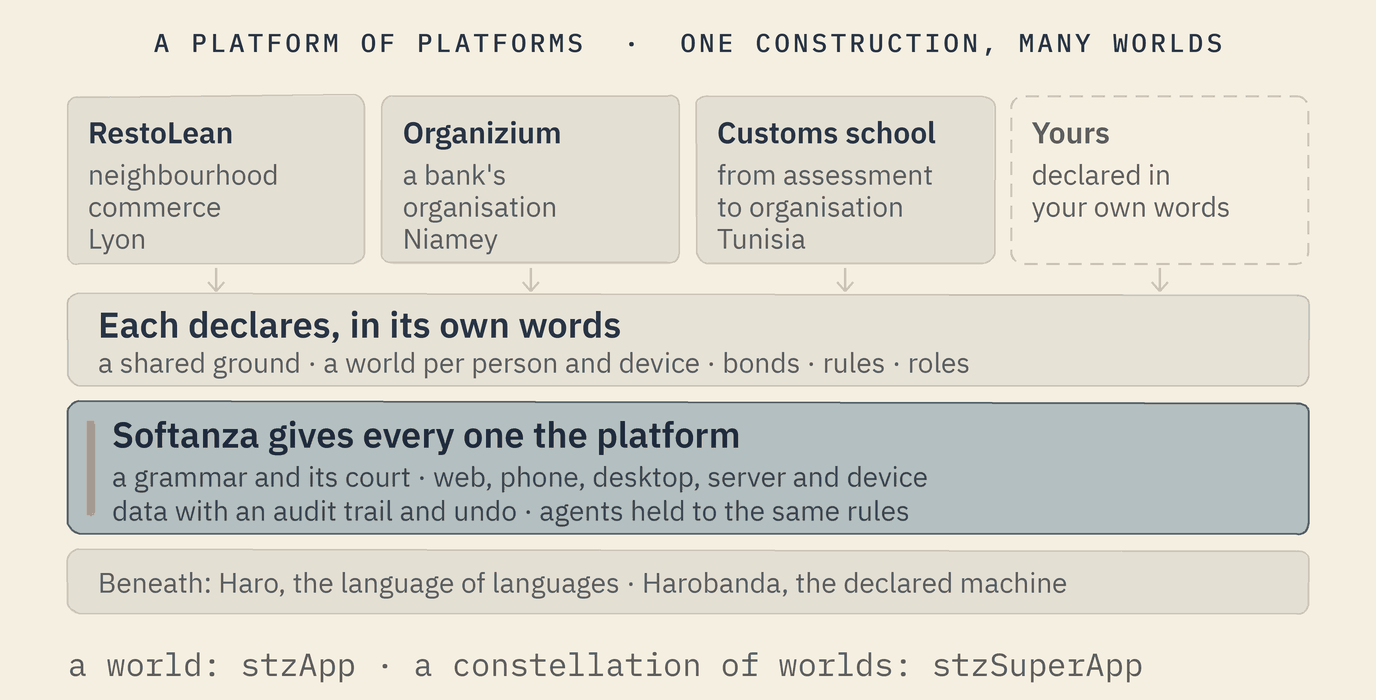
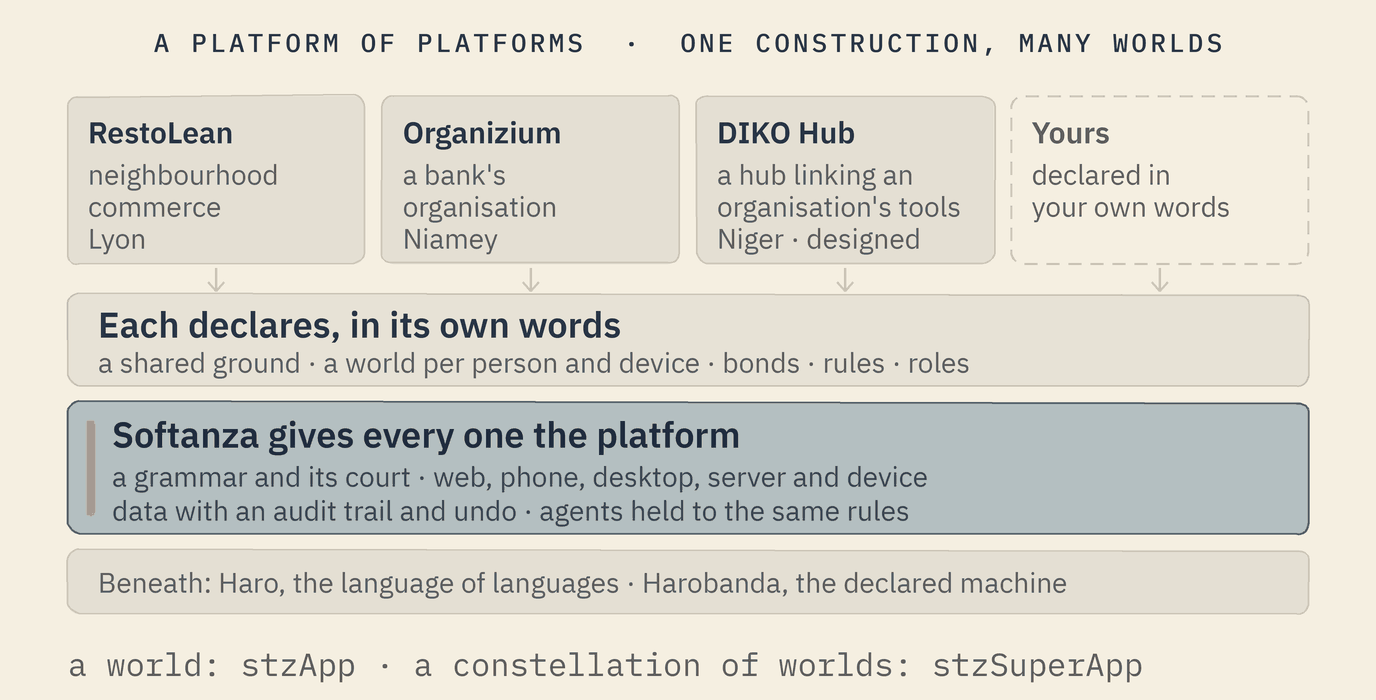
Sweep the customs school out of the site: Customers, Africa, Platforms with its diagram, Principles, Tour
DIKO Hub takes its place in the platforms diagram and text, written as a design study that is not built; Customers now says two references, and points to Forged in projects for DIKO. The diagram is redrawn wide and narrow in both languages.

Changed region(s): [[0.5, 0.24, 0.6875, 0.36], [0.5312, 0.15, 0.6875, 0.21]]

diff --git a/fr/platforms.html b/fr/platforms.html
@@ -37,9 +37,9 @@
 <p class="way"><span>La manière Softanza</span> Une plateforme n'est pas un hôte qui fait tourner les applications des autres. C'est une constellation de mondes déclarée dans les propres mots de l'organisation, partageant un même socle, reliée par des liens, et gouvernée comme un tout.</p>
 
 <h2 id="pattern">Ce que chacune déclare, et ce qu'elle reçoit</h2>
-<figure class="diagram"><img class="wide-only" src="../assets/img/diagrams/platforms-fr.png" alt="Quatre plateformes côte à côte : RestoLean, commerce de quartier à Lyon ; Organizium, l'organisation d'une banque à Niamey ; une école des douanes en Tunisie, où l'évaluation est devenue organisation ; et une boîte en pointillé, la vôtre, déclarée dans vos propres mots. En dessous, ce que chacune déclare dans ses propres mots : un socle commun, un monde par personne et appareil, des liens, des règles, des rôles. En dessous encore, la bande mise en avant : Softanza donne à chacune la plateforme, une grammaire et son tribunal, web, téléphone, bureau, serveur, appareil, des données avec journal et retour arrière, des agents tenus aux mêmes règles. Tout en bas : Haro, la langue des langues, et Harobanda, la machine déclarée." width="1376" height="768"><img class="narrow-only" loading="lazy" src="../assets/img/diagrams/platforms-narrow-fr.png" alt="Quatre plateformes côte à côte : RestoLean, commerce de quartier à Lyon ; Organizium, l'organisation d'une banque à Niamey ; une école des douanes en Tunisie, où l'évaluation est devenue organisation ; et une boîte en pointillé, la vôtre, déclarée dans vos propres mots. En dessous, ce que chacune déclare dans ses propres mots : un socle commun, un monde par personne et appareil, des liens, des règles, des rôles. En dessous encore, la bande mise en avant : Softanza donne à chacune la plateforme, une grammaire et son tribunal, web, téléphone, bureau, serveur, appareil, des données avec journal et retour arrière, des agents tenus aux mêmes règles. Tout en bas : Haro, la langue des langues, et Harobanda, la machine déclarée." width="640" height="1744"><figcaption>Une seule construction pour toutes les plateformes : un monde est stzApp, et une constellation de mondes est stzSuperApp.</figcaption></figure>
+<figure class="diagram"><img class="wide-only" src="../assets/img/diagrams/platforms-fr.png" alt="Quatre plateformes côte à côte : RestoLean, commerce de quartier à Lyon ; Organizium, l'organisation d'une banque à Niamey ; DIKO Hub, une étude de conception qui relie les outils d'une organisation au Niger ; et une boîte en pointillé, la vôtre, déclarée dans vos propres mots. En dessous, ce que chacune déclare dans ses propres mots : un socle commun, un monde par personne et appareil, des liens, des règles, des rôles. En dessous encore, la bande mise en avant : Softanza donne à chacune la plateforme, une grammaire et son tribunal, web, téléphone, bureau, serveur, appareil, des données avec journal et retour arrière, des agents tenus aux mêmes règles. Tout en bas : Haro, la langue des langues, et Harobanda, la machine déclarée." width="1376" height="768"><img class="narrow-only" loading="lazy" src="../assets/img/diagrams/platforms-narrow-fr.png" alt="Quatre plateformes côte à côte : RestoLean, commerce de quartier à Lyon ; Organizium, l'organisation d'une banque à Niamey ; DIKO Hub, une étude de conception qui relie les outils d'une organisation au Niger ; et une boîte en pointillé, la vôtre, déclarée dans vos propres mots. En dessous, ce que chacune déclare dans ses propres mots : un socle commun, un monde par personne et appareil, des liens, des règles, des rôles. En dessous encore, la bande mise en avant : Softanza donne à chacune la plateforme, une grammaire et son tribunal, web, téléphone, bureau, serveur, appareil, des données avec journal et retour arrière, des agents tenus aux mêmes règles. Tout en bas : Haro, la langue des langues, et Harobanda, la machine déclarée." width="640" height="1704"><figcaption>Une seule construction pour toutes les plateformes : un monde est stzApp, et une constellation de mondes est stzSuperApp.</figcaption></figure>
 
-<p>Chaque plateforme bâtie ainsi déclare les mêmes cinq choses, en texte qui lui appartient : son socle commun, un monde pour chaque personne et chaque appareil, les liens entre les mondes, ses règles et ses rôles. D'une plateforme à l'autre, seul le contenu change : un catalogue et ses taxes, la réglementation d'une banque, le programme d'une école, les langues que parlent ses gens.</p>
+<p>Chaque plateforme bâtie ainsi déclare les mêmes cinq choses, en texte qui lui appartient : son socle commun, un monde pour chaque personne et chaque appareil, les liens entre les mondes, ses règles et ses rôles. D'une plateforme à l'autre, seul le contenu change : un catalogue et ses taxes, la réglementation d'une banque, le circuit d'approbations d'une organisation, les langues que parlent ses gens.</p>
 <p>Ce que chacune reçoit est le même. Une grammaire, et le tribunal qui juge chaque phrase écrite dans cette grammaire. La projection vers le web, le téléphone, le bureau, le serveur et l'appareil. Des données qui passent par des étapes, avec un journal et un retour arrière. Et un agent qui se tient sur le savoir que la plateforme déclare, tenu aux mêmes règles que les personnes. La plateforme est celle de Softanza ; les mots sont ceux de l'organisation.</p>
 <h2 id="run">En marche</h2>
 <p>La construction existe dans la bibliothèque, et sa propre garde la juge. La voici, exécutée pour cette page : deux mondes deviennent une plateforme, puis cette plateforme devient un monde d'une plateforme plus grande.</p>
@@ -79,17 +79,17 @@ super
 <div class="cards">
 <div class="card"><h3>RestoLean, Lyon</h3><p>Une plateforme pour le commerce de quartier, déclarée comme une constellation. Son socle commun porte l'identité, le catalogue, les commandes, les paiements et la flotte des boutiques. Sur ce socle se tiennent un monde pour le téléphone du client, un pour l'écran de la cuisine, un pour l'atelier du commerçant et un pour la console de l'éditeur. Une boulangerie sera une nouvelle constellation sur le même socle, pas une réécriture.</p></div>
 <div class="card"><h3>Organizium, Niamey</h3><p>La plateforme où est née la couche web de Softanza, au service de l'organisation d'une banque, la Sonibank : sa structure, ses processus et ses indicateurs. Ses déclarations s'écrivent désormais dans les langues de la plateforme.</p></div>
-<div class="card"><h3>L'École des douanes, Tunisie</h3><p>Quatre exigences ont transformé un outil d'évaluation en plateforme d'organisation à deux niveaux : l'ossature de l'organisation, toujours présente, et le domaine propre de l'école, son programme et ses résultats. Les niveaux restent ; le contenu change avec le domaine.</p></div>
+<div class="card"><h3>DIKO Hub, Niger</h3><p>Une étude de conception, pas une plateforme construite : un point d'entrée unique qui relie les outils existants d'une organisation sans en remplacer aucun. Il demande à une plateforme ce que les autres ont demandé avec leurs mots : son propre vocabulaire et ses règles, une personne qui décide, tout tracé, un circuit avec ses délais. <a href="forged.html#diko">Ce qu'il demande, pièce par pièce</a>.</p></div>
 </div>
 
 <h2 id="stage">Honnête sur le stade</h2>
 <ul>
 <li><strong>La construction est construite.</strong> Un monde et une constellation de mondes tournent dans la bibliothèque, et les exécutions ci-dessus viennent de leur garde.</li>
 <li><strong>Une même coque porte déjà plusieurs métiers.</strong> Dans les applications de Softanza, la même coque porte des paquets de domaine, de la banque à la vérification préalable d'une ONG : la même coque, un autre métier, aucun code changé.</li>
-<li><strong>Les plateformes des clients tournent aujourd'hui sur des piles web ordinaires.</strong> Leurs mondes, leurs liens et leurs règles sont écrits, ou en train de l'être, comme des déclarations Softanza : les faire passer sur le moteur de Softanza est un changement de moteur, pas de plan.</li>
+<li><strong>Les plateformes des clients tournent aujourd'hui sur des piles web ordinaires, et DIKO Hub n'est pas construit.</strong> Leurs mondes, leurs liens et leurs règles sont écrits, ou en train de l'être, comme des déclarations Softanza : les faire passer sur le moteur de Softanza est un changement de moteur, pas de plan.</li>
 <li><strong>Aucune plateforme n'écrit encore sa fiche de garanties.</strong> L'étoile polaire demande à chaque solution cinq lignes, une par système auquel elle répond : technique, social, écologique, économique et culturel. C'est la prochaine étape pour chacune.</li>
 </ul>
-<p class="proof">La construction est décrite dans la note de conception de la bibliothèque <a href="https://github.com/mayouni/stzlib/blob/main/libraries/stzlib/base/doc/design/STZSUPERAPP_DESIGN.md" target="_blank" rel="noopener noreferrer">STZSUPERAPP_DESIGN.md<span class="xarr" aria-hidden="true"></span><span class="sr">(s'ouvre dans un nouvel onglet)</span></a> et jugée par la garde <a href="https://github.com/mayouni/stzlib/blob/main/libraries/stzlib/base/test/app/06_stzsuperapp_narrated.ring" target="_blank" rel="noopener noreferrer">06_stzsuperapp_narrated.ring<span class="xarr" aria-hidden="true"></span><span class="sr">(s'ouvre dans un nouvel onglet)</span></a>. Les trois plateformes sont les références de ce site. Leurs histoires, projet par projet : <a href="forged.html">Forgée en projets</a>.</p>
+<p class="proof">La construction est décrite dans la note de conception de la bibliothèque <a href="https://github.com/mayouni/stzlib/blob/main/libraries/stzlib/base/doc/design/STZSUPERAPP_DESIGN.md" target="_blank" rel="noopener noreferrer">STZSUPERAPP_DESIGN.md<span class="xarr" aria-hidden="true"></span><span class="sr">(s'ouvre dans un nouvel onglet)</span></a> et jugée par la garde <a href="https://github.com/mayouni/stzlib/blob/main/libraries/stzlib/base/test/app/06_stzsuperapp_narrated.ring" target="_blank" rel="noopener noreferrer">06_stzsuperapp_narrated.ring<span class="xarr" aria-hidden="true"></span><span class="sr">(s'ouvre dans un nouvel onglet)</span></a>. Les deux premières plateformes sont des références de ce site ; la troisième est une étude de conception. Leurs histoires, projet par projet : <a href="forged.html">Forgée en projets</a>.</p>
   </div>
 </main>
 <footer class="foot"><div class="wrap">

diff --git a/en/platforms.html b/en/platforms.html
@@ -37,9 +37,9 @@
 <p class="way"><span>The Softanza way</span> A platform is not a host that runs other people's apps. It is a constellation of worlds declared in the organisation's own words, sharing one ground, joined by bonds, and governed as one.</p>
 
 <h2 id="pattern">What each one declares, and what it receives</h2>
-<figure class="diagram"><img class="wide-only" src="../assets/img/diagrams/platforms-en.png" alt="Four platforms side by side: RestoLean, neighbourhood commerce in Lyon; Organizium, a bank's organisation in Niamey; a customs school in Tunisia, where assessment became organisation; and a dashed box, yours, declared in your own words. Below them, what each declares in its own words: a shared ground, a world per person and device, bonds, rules, roles. Below that, the emphasised band: Softanza gives every one the platform, a grammar and its court, web, phone, desktop, server and device, data with an audit trail and undo, agents held to the same rules. At the bottom, beneath: Haro, the language of languages, and Harobanda, the declared machine." width="1376" height="768"><img class="narrow-only" loading="lazy" src="../assets/img/diagrams/platforms-narrow-en.png" alt="Four platforms side by side: RestoLean, neighbourhood commerce in Lyon; Organizium, a bank's organisation in Niamey; a customs school in Tunisia, where assessment became organisation; and a dashed box, yours, declared in your own words. Below them, what each declares in its own words: a shared ground, a world per person and device, bonds, rules, roles. Below that, the emphasised band: Softanza gives every one the platform, a grammar and its court, web, phone, desktop, server and device, data with an audit trail and undo, agents held to the same rules. At the bottom, beneath: Haro, the language of languages, and Harobanda, the declared machine." width="640" height="1664"><figcaption>One construction for every platform: a world is stzApp, and a constellation of worlds is stzSuperApp.</figcaption></figure>
+<figure class="diagram"><img class="wide-only" src="../assets/img/diagrams/platforms-en.png" alt="Four platforms side by side: RestoLean, neighbourhood commerce in Lyon; Organizium, a bank's organisation in Niamey; DIKO Hub, a design study that links an organisation's tools in Niger; and a dashed box, yours, declared in your own words. Below them, what each declares in its own words: a shared ground, a world per person and device, bonds, rules, roles. Below that, the emphasised band: Softanza gives every one the platform, a grammar and its court, web, phone, desktop, server and device, data with an audit trail and undo, agents held to the same rules. At the bottom, beneath: Haro, the language of languages, and Harobanda, the declared machine." width="1376" height="768"><img class="narrow-only" loading="lazy" src="../assets/img/diagrams/platforms-narrow-en.png" alt="Four platforms side by side: RestoLean, neighbourhood commerce in Lyon; Organizium, a bank's organisation in Niamey; DIKO Hub, a design study that links an organisation's tools in Niger; and a dashed box, yours, declared in your own words. Below them, what each declares in its own words: a shared ground, a world per person and device, bonds, rules, roles. Below that, the emphasised band: Softanza gives every one the platform, a grammar and its court, web, phone, desktop, server and device, data with an audit trail and undo, agents held to the same rules. At the bottom, beneath: Haro, the language of languages, and Harobanda, the declared machine." width="640" height="1624"><figcaption>One construction for every platform: a world is stzApp, and a constellation of worlds is stzSuperApp.</figcaption></figure>
 
-<p>Every platform built this way declares the same five things, as text it owns: its shared ground, a world for each person and device, the bonds between the worlds, its rules and its roles. What changes from one platform to the next is only the content: a catalogue and its taxes, a bank's regulations, a school's curriculum, the languages its people speak.</p>
+<p>Every platform built this way declares the same five things, as text it owns: its shared ground, a world for each person and device, the bonds between the worlds, its rules and its roles. What changes from one platform to the next is only the content: a catalogue and its taxes, a bank's regulations, an organisation's circuit of approvals, the languages its people speak.</p>
 <p>What every one receives is the same. A grammar, and the court that judges every sentence written in it. Projection to the web, the phone, the desktop, the server and the device. Data that moves through stages with an audit trail and undo. And an agent that stands on the knowledge the platform declares, held to the same rules as the people. The platform is Softanza's; the words are the organisation's.</p>
 <h2 id="run">Running</h2>
 <p>The construction exists in the library and is judged by its own guard. Here it is, run for this page: two worlds become one platform, and then that platform becomes one world of a larger one.</p>
@@ -79,17 +79,17 @@ super
 <div class="cards">
 <div class="card"><h3>RestoLean, Lyon</h3><p>A platform for neighbourhood commerce, declared as a constellation. Its shared ground holds identity, the catalogue, orders, payments and the fleet of shops. On that ground stand a world for the customer's phone, one for the kitchen's screen, one for the merchant's workshop and one for the publisher's console. A bakery will be a new constellation on the same ground, not a rewrite.</p></div>
 <div class="card"><h3>Organizium, Niamey</h3><p>The platform in which Softanza's web layer was born, serving the organisation of a bank, Sonibank: its structure, its processes and its indicators. Its declarations are now being written in the platform's own languages.</p></div>
-<div class="card"><h3>The customs school, Tunisia</h3><p>Four requirements turned an assessment tool into an organisational platform with two levels: the organisation's backbone, always present, and the school's own domain, its curriculum and its results. The levels stay; the content changes with the domain.</p></div>
+<div class="card"><h3>DIKO Hub, Niger</h3><p>A design study, not a built platform: one entry point that links an organisation's existing tools without replacing any. It asks of a platform what the others asked in their own words: its own vocabulary and rules, a person who decides, everything traced, a circuit with its deadlines. <a href="forged.html#diko">What it asks, piece by piece</a>.</p></div>
 </div>
 
 <h2 id="stage">Honest about the stage</h2>
 <ul>
 <li><strong>The construction is built.</strong> A world and a constellation of worlds run in the library, and the runs above come from their guard.</li>
 <li><strong>One shell already carries several domains.</strong> In Softanza's applications, the same shell holds domain packs from banking to an NGO's due diligence: the same shell, a different domain, no code change.</li>
-<li><strong>The customer platforms run today on ordinary web stacks.</strong> Their worlds, bonds and rules are written, or being written, as Softanza declarations, so moving them onto the Softanza engine is a change of engine, not of plan.</li>
+<li><strong>The customer platforms run today on ordinary web stacks, and DIKO Hub is not built.</strong> Their worlds, bonds and rules are written, or being written, as Softanza declarations, so moving them onto the Softanza engine is a change of engine, not of plan.</li>
 <li><strong>No platform writes its guarantee sheet yet.</strong> The north star asks every solution for five rows, one per system it answers to: technical, social, ecological, economic and cultural. That is the next step for each of them.</li>
 </ul>
-<p class="proof">The construction is described in the library's design note <a href="https://github.com/mayouni/stzlib/blob/main/libraries/stzlib/base/doc/design/STZSUPERAPP_DESIGN.md" target="_blank" rel="noopener noreferrer">STZSUPERAPP_DESIGN.md<span class="xarr" aria-hidden="true"></span><span class="sr">(opens in a new tab)</span></a> and judged by the guard <a href="https://github.com/mayouni/stzlib/blob/main/libraries/stzlib/base/test/app/06_stzsuperapp_narrated.ring" target="_blank" rel="noopener noreferrer">06_stzsuperapp_narrated.ring<span class="xarr" aria-hidden="true"></span><span class="sr">(opens in a new tab)</span></a>. The three platforms are the references of this site. Their stories, project by project: <a href="forged.html">Forged in projects</a>.</p>
+<p class="proof">The construction is described in the library's design note <a href="https://github.com/mayouni/stzlib/blob/main/libraries/stzlib/base/doc/design/STZSUPERAPP_DESIGN.md" target="_blank" rel="noopener noreferrer">STZSUPERAPP_DESIGN.md<span class="xarr" aria-hidden="true"></span><span class="sr">(opens in a new tab)</span></a> and judged by the guard <a href="https://github.com/mayouni/stzlib/blob/main/libraries/stzlib/base/test/app/06_stzsuperapp_narrated.ring" target="_blank" rel="noopener noreferrer">06_stzsuperapp_narrated.ring<span class="xarr" aria-hidden="true"></span><span class="sr">(opens in a new tab)</span></a>. The first two platforms are references of this site; the third is a design study. Their stories, project by project: <a href="forged.html">Forged in projects</a>.</p>
   </div>
 </main>
 <footer class="foot"><div class="wrap">

diff --git a/fr/tour.html b/fr/tour.html
@@ -64,8 +64,8 @@
 </section>
 <section class="scene " id="s5" data-index="5" aria-label="5/13">
   <div class="scene-inner"><div class="eyebrow">La langue des langues, et la plateforme des plateformes · la construction tourne dans la bibliothèque</div>
-<figure class="diagram"><img class="wide-only" src="../assets/img/diagrams/platforms-fr.png" alt="RestoLean, Organizium, une école des douanes, et la vôtre : chacune déclare sa plateforme dans ses propres mots ; Softanza donne à chacune la plateforme." width="1376" height="768"><img class="narrow-only" loading="lazy" src="../assets/img/diagrams/platforms-narrow-fr.png" alt="RestoLean, Organizium, une école des douanes, et la vôtre : chacune déclare sa plateforme dans ses propres mots ; Softanza donne à chacune la plateforme." width="640" height="1744"></figure></div>
-  <aside class="notes"><div class="eyebrow">Notes</div><p>« Haro est la langue des langues. Softanza est la plateforme des plateformes. » Un réseau de restaurants, une banque, une école : chacun déclare sa propre plateforme dans ses propres mots, un socle commun, un monde par personne et appareil, des liens, des règles, des rôles. Softanza donne à chacune une grammaire et son tribunal, tous les écrans, des données avec retour arrière, et des agents tenus aux mêmes règles. Dire le stade : la construction tourne dans la bibliothèque ; les plateformes des clients tournent aujourd'hui sur des piles web ordinaires, et les passer sur le moteur est un changement de moteur, pas de plan.</p></aside>
+<figure class="diagram"><img class="wide-only" src="../assets/img/diagrams/platforms-fr.png" alt="RestoLean, Organizium, DIKO Hub, et la vôtre : chacune déclare sa plateforme dans ses propres mots ; Softanza donne à chacune la plateforme." width="1376" height="768"><img class="narrow-only" loading="lazy" src="../assets/img/diagrams/platforms-narrow-fr.png" alt="RestoLean, Organizium, DIKO Hub, et la vôtre : chacune déclare sa plateforme dans ses propres mots ; Softanza donne à chacune la plateforme." width="640" height="1704"></figure></div>
+  <aside class="notes"><div class="eyebrow">Notes</div><p>« Haro est la langue des langues. Softanza est la plateforme des plateformes. » Un réseau de restaurants, une banque, une organisation au Niger : chacun déclare sa propre plateforme dans ses propres mots, un socle commun, un monde par personne et appareil, des liens, des règles, des rôles. Softanza donne à chacune une grammaire et son tribunal, tous les écrans, des données avec retour arrière, et des agents tenus aux mêmes règles. Dire le stade : la construction tourne dans la bibliothèque ; les plateformes des clients tournent aujourd'hui sur des piles web ordinaires, et les passer sur le moteur est un changement de moteur, pas de plan.</p></aside>
   <div class="scene-foot"><a class="scene-page" href="platforms.html">Plateforme de plateformes</a><span class="scene-count mono">5 / 13</span></div>
 </section>
 <section class="scene " id="s6" data-index="6" aria-label="6/13">
@@ -133,7 +133,7 @@ PROVED  the course folder still holds all 610 files</pre></div></div>
 <section class="scene " id="s12" data-index="12" aria-label="12/13">
   <div class="scene-inner"><div class="eyebrow">Née en Afrique</div>
 <figure><img src="../assets/img/niger-density.png" alt="Carte de densité de population du Niger par région, rendue par le moteur." width="1500" height="1240"><figcaption>« Où vit le Niger » : rendue par le moteur en 5,9 secondes à partir des frontières officielles et du recensement de 2012 ; les superficies sont mesurées par la routine géodésique de Softanza.</figcaption></figure></div>
-  <aside class="notes"><div class="eyebrow">Notes</div><p>« Agadez, c'est 52 % du territoire et 2,8 % des habitants. Ce chiffre n'a pas été copié d'une table : la bibliothèque a mesuré la superficie de chaque région sur l'ellipsoïde. » Puis les racines : Sonibank, l'école des douanes, RestoLean ; le cours en haoussa ; Harobanda, le nom du pont de Niamey.</p></aside>
+  <aside class="notes"><div class="eyebrow">Notes</div><p>« Agadez, c'est 52 % du territoire et 2,8 % des habitants. Ce chiffre n'a pas été copié d'une table : la bibliothèque a mesuré la superficie de chaque région sur l'ellipsoïde. » Puis les racines : Sonibank, RestoLean, l'étude DIKO ; le cours en haoussa ; Harobanda, le nom du pont de Niamey.</p></aside>
   <div class="scene-foot"><a class="scene-page" href="africa.html">Afrique</a><span class="scene-count mono">12 / 13</span></div>
 </section>
 <section class="scene " id="s13" data-index="13" aria-label="13/13">

diff --git a/en/tour.html b/en/tour.html
@@ -64,8 +64,8 @@
 </section>
 <section class="scene " id="s5" data-index="5" aria-label="5/13">
   <div class="scene-inner"><div class="eyebrow">The language of languages, and the platform of platforms · the construction runs in the library</div>
-<figure class="diagram"><img class="wide-only" src="../assets/img/diagrams/platforms-en.png" alt="RestoLean, Organizium, a customs school, and yours: each declares its platform in its own words; Softanza gives every one the platform." width="1376" height="768"><img class="narrow-only" loading="lazy" src="../assets/img/diagrams/platforms-narrow-en.png" alt="RestoLean, Organizium, a customs school, and yours: each declares its platform in its own words; Softanza gives every one the platform." width="640" height="1664"></figure></div>
-  <aside class="notes"><div class="eyebrow">Notes</div><p>"Haro is the language of languages. Softanza is the platform of platforms." A restaurant network, a bank, a school: each declares its own platform in its own words, a shared ground, a world per person and device, bonds, rules, roles. Softanza gives every one a grammar and its court, every screen, data with undo, and agents held to the same rules. Say the stage: the construction runs in the library; the customer platforms run today on ordinary web stacks, and moving them onto the engine is a change of engine, not of plan.</p></aside>
+<figure class="diagram"><img class="wide-only" src="../assets/img/diagrams/platforms-en.png" alt="RestoLean, Organizium, DIKO Hub, and yours: each declares its platform in its own words; Softanza gives every one the platform." width="1376" height="768"><img class="narrow-only" loading="lazy" src="../assets/img/diagrams/platforms-narrow-en.png" alt="RestoLean, Organizium, DIKO Hub, and yours: each declares its platform in its own words; Softanza gives every one the platform." width="640" height="1624"></figure></div>
+  <aside class="notes"><div class="eyebrow">Notes</div><p>"Haro is the language of languages. Softanza is the platform of platforms." A restaurant network, a bank, an organisation in Niger: each declares its own platform in its own words, a shared ground, a world per person and device, bonds, rules, roles. Softanza gives every one a grammar and its court, every screen, data with undo, and agents held to the same rules. Say the stage: the construction runs in the library; the customer platforms run today on ordinary web stacks, and moving them onto the engine is a change of engine, not of plan.</p></aside>
   <div class="scene-foot"><a class="scene-page" href="platforms.html">Platform of platforms</a><span class="scene-count mono">5 / 13</span></div>
 </section>
 <section class="scene " id="s6" data-index="6" aria-label="6/13">
@@ -133,7 +133,7 @@ PROVED  the course folder still holds all 610 files</pre></div></div>
 <section class="scene " id="s12" data-index="12" aria-label="12/13">
   <div class="scene-inner"><div class="eyebrow">Born in Africa</div>
 <figure><img src="../assets/img/niger-density.png" alt="Population density map of Niger by region, rendered by the engine." width="1500" height="1240"><figcaption>"Where Niger lives": rendered by the engine in 5.9 seconds from the official borders and the 2012 census; the areas are measured by Softanza's geodesic routine.</figcaption></figure></div>
-  <aside class="notes"><div class="eyebrow">Notes</div><p>"Agadez is 52% of the territory and 2.8% of the people. That number was not copied from a table: the library measured every region's area on the ellipsoid." Then the roots: Sonibank, the customs school, RestoLean; the course in Hausa; Harobanda, the name of the Niamey bridge.</p></aside>
+  <aside class="notes"><div class="eyebrow">Notes</div><p>"Agadez is 52% of the territory and 2.8% of the people. That number was not copied from a table: the library measured every region's area on the ellipsoid." Then the roots: Sonibank, RestoLean, the DIKO study; the course in Hausa; Harobanda, the name of the Niamey bridge.</p></aside>
   <div class="scene-foot"><a class="scene-page" href="africa.html">Africa</a><span class="scene-count mono">12 / 13</span></div>
 </section>
 <section class="scene " id="s13" data-index="13" aria-label="13/13">

diff --git a/fr/africa.html b/fr/africa.html
@@ -28,14 +28,13 @@
   <section class="page-head"><div class="wrap">
     <div class="eyebrow">Utile au monde</div>
     <h1>Née <i>en Afrique</i></h1>
-    <p class="lede">Softanza est conçue par un Tunisien, entre la Tunisie, Niamey et Paris. Ses références sont une banque, une école des douanes et un restaurant, chacune attestée par un document. Son cours parle haoussa, et attend un relecteur natif. Sa machine, Harobanda, porte le nom du pont sur le fleuve Niger qui joint les deux rives de Niamey, « parce que la machine joint de même les promesses d'une solution au matériel qui les tient ».</p>
+    <p class="lede">Softanza est conçue par un Tunisien, entre la Tunisie, Niamey et Paris. Ses références sont une banque et un restaurant, chacune attestée par un document. Son cours parle haoussa, et attend un relecteur natif. Sa machine, Harobanda, porte le nom du pont sur le fleuve Niger qui joint les deux rives de Niamey, « parce que la machine joint de même les promesses d'une solution au matériel qui les tient ».</p>
   </div></section>
   <div class="wrap page-body">
 <figure><img src="../assets/img/niger-density.png" alt="Carte de densité de population du Niger par région, 2012 : Agadez au nord presque vide à 0,78 habitant par km² ; les régions du sud denses ; Niamey à 1 844 habitants par km², hors échelle." width="1500" height="1240"><figcaption>« Où vit le Niger », rendu par le moteur le 2026-09-30 en 5,9 secondes à partir des frontières officielles (geoBoundaries, ODbL) et du recensement de 2012 (Institut national de la statistique du Niger). Les superficies sont mesurées par la routine géodésique du moteur sur l'ellipsoïde WGS84 : la densité est le propre chiffre de la bibliothèque. Garde : <a href="https://github.com/mayouni/stzlib/blob/main/libraries/stzlib/base/test/graphics/niger_density.ring" target="_blank" rel="noopener noreferrer">niger_density<span class="xarr" aria-hidden="true"></span><span class="sr">(s'ouvre dans un nouvel onglet)</span></a>.</figcaption></figure>
 
 <div class="cards">
 <div class="card"><h3>Sonibank, Niamey</h3><p>Organizium Standard Edition, sous licence, sur le réseau interne de la banque. Le guide d'installation livré à la banque atteste la référence.</p></div>
-<div class="card"><h3>L'École nationale des douanes, Tunisie</h3><p>Quatre exigences, documentées une à une, ont transformé un outil d'évaluation en plateforme organisationnelle.</p></div>
 <div class="card"><h3>RestoLean, Lyon</h3><p>Une plateforme pour le commerce de quartier, portée par le propriétaire d'un restaurant de couscous. Sa règle ergonomique : au plus deux gestes par action.</p></div>
 </div>
 

diff --git a/en/africa.html b/en/africa.html
@@ -28,14 +28,13 @@
   <section class="page-head"><div class="wrap">
     <div class="eyebrow">Useful to the world</div>
     <h1>Born <i>in Africa</i></h1>
-    <p class="lede">Softanza is designed by a Tunisian, between Tunisia, Niamey and Paris. Its references are a bank, a customs school and a restaurant, each attested by a document. Its course speaks Hausa, and awaits a native reviewer. Its machine, Harobanda, is named for the bridge across the Niger River that joins the two banks of Niamey, "because the machine likewise joins a solution's promises to the hardware that keeps them".</p>
+    <p class="lede">Softanza is designed by a Tunisian, between Tunisia, Niamey and Paris. Its references are a bank and a restaurant, each attested by a document. Its course speaks Hausa, and awaits a native reviewer. Its machine, Harobanda, is named for the bridge across the Niger River that joins the two banks of Niamey, "because the machine likewise joins a solution's promises to the hardware that keeps them".</p>
   </div></section>
   <div class="wrap page-body">
 <figure><img src="../assets/img/niger-density.png" alt="Population density map of Niger by region, 2012: Agadez in the north nearly empty at 0.78 people per km²; the southern regions dense; Niamey at 1,844 people per km², off the scale." width="1500" height="1240"><figcaption>"Where Niger lives", rendered by the engine on 2026-09-30 in 5.9 seconds from the official borders (geoBoundaries, ODbL) and the 2012 census (Niger's National Institute of Statistics). The areas are measured by the engine's geodesic routine on the WGS84 ellipsoid, so the density is the library's own number. Guard: <a href="https://github.com/mayouni/stzlib/blob/main/libraries/stzlib/base/test/graphics/niger_density.ring" target="_blank" rel="noopener noreferrer">niger_density<span class="xarr" aria-hidden="true"></span><span class="sr">(opens in a new tab)</span></a>.</figcaption></figure>
 
 <div class="cards">
 <div class="card"><h3>Sonibank, Niamey</h3><p>Organizium Standard Edition, under licence, on the bank's internal network. The installation guide delivered to the bank attests the reference.</p></div>
-<div class="card"><h3>The National Customs School, Tunisia</h3><p>Four requirements, documented one by one, turned an assessment tool into an organisational platform.</p></div>
 <div class="card"><h3>RestoLean, Lyon</h3><p>A platform for neighbourhood commerce, carried by the owner of a couscous restaurant. Its ergonomic rule: at most two gestures per action.</p></div>
 </div>
 

diff --git a/fr/customers.html b/fr/customers.html
@@ -28,17 +28,16 @@
   <section class="page-head"><div class="wrap">
     <div class="eyebrow">Des références, chacune avec son document</div>
     <h1><i>Clients</i>, et comment écrire</h1>
-    <p class="lede">Rien n'est une référence tant qu'un document ne le prouve pas. Trois le sont, aujourd'hui. Et toute question passe par un seul endroit.</p>
+    <p class="lede">Rien n'est une référence tant qu'un document ne le prouve pas. Deux le sont, aujourd'hui. Et toute question passe par un seul endroit.</p>
   </div></section>
   <div class="wrap page-body">
 <h2 id="references">Les références</h2>
 <div class="cards">
 <div class="card"><h3>Sonibank, Niamey</h3><p>Organizium Standard Edition, sous licence, installé sur le réseau interne de la banque. Le guide d'installation livré à la banque atteste la référence.</p></div>
-<div class="card"><h3>L'École nationale des douanes, Tunisie</h3><p>Quatre exigences, documentées une à une, ont transformé un outil d'évaluation en plateforme organisationnelle.</p></div>
 <div class="card"><h3>RestoLean, Lyon</h3><p>Une plateforme pour le commerce de quartier, portée par le propriétaire d'un restaurant de couscous. L'avenant n° 1 a été clos le 4 août 2026 ; sa règle ergonomique est « au plus deux gestes par action ».</p></div>
 </div>
 
-<p>Rien d'autre n'est une référence tant qu'un document ne le prouve pas. Ce site ne cite aucun nombre de pays et aucun nombre de développeurs.</p>
+<p>Rien d'autre n'est une référence tant qu'un document ne le prouve pas. Un troisième projet, DIKO, est une étude de conception et non une livraison : <a href="forged.html#diko">Forgée en projets</a> dit ce qu'il demande à la bibliothèque. Ce site ne cite aucun nombre de pays et aucun nombre de développeurs.</p>
 <h2 id="write">Écrire</h2>
 <p>Les questions, les rapports de défaut, les propositions, et les demandes pour l'édition entreprise passent par <a href="https://github.com/mayouni/stzlib/issues" target="_blank" rel="noopener noreferrer">les tickets du dépôt GitHub<span class="xarr" aria-hidden="true"></span><span class="sr">(s'ouvre dans un nouvel onglet)</span></a>. Une faille de sécurité se signale en privé par les avis de sécurité du dépôt, comme le dit son <a href="https://github.com/mayouni/stzlib/blob/main/SECURITY.md" target="_blank" rel="noopener noreferrer">SECURITY.md<span class="xarr" aria-hidden="true"></span><span class="sr">(s'ouvre dans un nouvel onglet)</span></a>.</p>
   </div>

diff --git a/en/customers.html b/en/customers.html
@@ -28,17 +28,16 @@
   <section class="page-head"><div class="wrap">
     <div class="eyebrow">References, each with its document</div>
     <h1><i>Customers</i>, and how to write</h1>
-    <p class="lede">Nothing is a reference until a document proves it. Three are, today. And every question goes through one place.</p>
+    <p class="lede">Nothing is a reference until a document proves it. Two are, today. And every question goes through one place.</p>
   </div></section>
   <div class="wrap page-body">
 <h2 id="references">The references</h2>
 <div class="cards">
 <div class="card"><h3>Sonibank, Niamey</h3><p>Organizium Standard Edition, under licence, installed on the bank's internal network. The installation guide delivered to the bank attests the reference.</p></div>
-<div class="card"><h3>The National Customs School, Tunisia</h3><p>Four requirements, documented one by one, turned an assessment tool into an organisational platform.</p></div>
 <div class="card"><h3>RestoLean, Lyon</h3><p>A platform for neighbourhood commerce, carried by the owner of a couscous restaurant. Amendment no. 1 closed on 4 August 2026; its ergonomic rule is "at most two gestures per action".</p></div>
 </div>
 
-<p>Nothing else is a reference until a document proves it. This site quotes no number of countries and no number of developers.</p>
+<p>Nothing else is a reference until a document proves it. A third project, DIKO, is a design study and not a delivery: <a href="forged.html#diko">Forged in projects</a> says what it asks of the library. This site quotes no number of countries and no number of developers.</p>
 <h2 id="write">Write</h2>
 <p>Questions, defect reports, proposals, and requests for the enterprise edition go through <a href="https://github.com/mayouni/stzlib/issues" target="_blank" rel="noopener noreferrer">the issues of the GitHub repository<span class="xarr" aria-hidden="true"></span><span class="sr">(opens in a new tab)</span></a>. A security flaw is reported privately through the repository's security advisories, as its <a href="https://github.com/mayouni/stzlib/blob/main/SECURITY.md" target="_blank" rel="noopener noreferrer">SECURITY.md<span class="xarr" aria-hidden="true"></span><span class="sr">(opens in a new tab)</span></a> says.</p>
   </div>

diff --git a/fr/principles.html b/fr/principles.html
@@ -43,7 +43,7 @@
 <div class="card"><h3>9 · Honnête par conception</h3><p>L'Atlas montre les notes basses à côté des hautes ; chaque produit porte son stade ; aucun chiffre sans fichier.</p></div>
 <div class="card"><h3>10 · Souveraine par construction</h3><p>Rien que quiconque puisse retirer : un verdict par dépendance, du texte brut que vous gardez, une machine que vous déclarez.</p></div>
 <div class="card"><h3>11 · Programmer par cœur</h3><p>Ce que vous pensez est ce que vous écrivez. Le tribunal est sévère pour que la surface reste chaleureuse ; un tuteur demande et ne donne jamais la réponse.</p></div>
-<div class="card"><h3>12 · Née en Afrique</h3><p>Conçue entre la Tunisie, Niamey et Paris ; une banque, une école des douanes et un restaurant comme références ; une machine nommée d'après un pont.</p></div>
+<div class="card"><h3>12 · Née en Afrique</h3><p>Conçue entre la Tunisie, Niamey et Paris ; une banque et un restaurant comme références ; une machine nommée d'après un pont.</p></div>
 </div>
   </div>
 </main>

diff --git a/en/principles.html b/en/principles.html
@@ -43,7 +43,7 @@
 <div class="card"><h3>9 · Honest by design</h3><p>The Atlas shows the low ratings beside the high ones; every product carries its stage; no figure without a file.</p></div>
 <div class="card"><h3>10 · Sovereign by construction</h3><p>Nothing anyone else can withdraw: a verdict per dependency, plain text you keep, a machine you declare.</p></div>
 <div class="card"><h3>11 · Programming by heart</h3><p>What you think is what you write. The court is severe so that the surface can stay warm; a tutor asks and never gives the answer.</p></div>
-<div class="card"><h3>12 · Born in Africa</h3><p>Designed between Tunisia, Niamey and Paris; a bank, a customs school and a restaurant as references; a machine named after a bridge.</p></div>
+<div class="card"><h3>12 · Born in Africa</h3><p>Designed between Tunisia, Niamey and Paris; a bank and a restaurant as references; a machine named after a bridge.</p></div>
 </div>
   </div>
 </main>

diff --git a/tools/diagrams/stz_diagrams.py b/tools/diagrams/stz_diagrams.py
@@ -364,7 +364,7 @@ def platforms(lang):
       "en": dict(k="A PLATFORM OF PLATFORMS  ·  ONE CONSTRUCTION, MANY WORLDS",
                  tops=[("RestoLean", ["neighbourhood", "commerce", "Lyon"], False),
                        ("Organizium", ["a bank's", "organisation", "Niamey"], False),
-                       ("Customs school", ["from assessment", "to organisation", "Tunisia"], False),
+                       ("DIKO Hub", ["a hub linking an", "organisation's tools", "Niger · designed"], False),
                        ("Yours", ["declared in", "your own words"], True)],
                  decl=("Each declares, in its own words", "a shared ground · a world per person and device · bonds · rules · roles"),
                  give=("Softanza gives every one the platform", ["a grammar and its court · web, phone, desktop, server and device",
@@ -374,7 +374,7 @@ def platforms(lang):
       "fr": dict(k="UNE PLATEFORME DE PLATEFORMES  ·  UNE CONSTRUCTION, DES MONDES",
                  tops=[("RestoLean", ["commerce de", "quartier", "Lyon"], False),
                        ("Organizium", ["l'organisation", "d'une banque", "Niamey"], False),
-                       ("École des douanes", ["de l'évaluation", "à l'organisation", "Tunisie"], False),
+                       ("DIKO Hub", ["un hub qui relie", "les outils d'une", "organisation · conçu"], False),
                        ("La vôtre", ["déclarée dans", "vos propres mots"], True)],
                  decl=("Chacune déclare, dans ses propres mots", "un socle commun · un monde par personne et appareil · liens · règles · rôles"),
                  give=("Softanza donne à chacune la plateforme", ["une grammaire et son tribunal · web, téléphone, bureau, serveur, appareil",

diff --git a/tools/diagrams/stz_narrow.py b/tools/diagrams/stz_narrow.py
@@ -306,7 +306,7 @@ def platforms(lang):
     T = {
      "en": dict(t="A PLATFORM OF PLATFORMS · ONE CONSTRUCTION, MANY WORLDS",
         tops=[("RestoLean", "neighbourhood commerce · Lyon"), ("Organizium", "a bank's organisation · Niamey"),
-              ("Customs school", "assessment become organisation, Tunisia")],
+              ("DIKO Hub", "tools linked, Niger · designed")],
         yours=("Yours", "declared in your own words"),
         decl=("Each declares, in its own words", "a shared ground · a world per person and device · bonds · rules · roles"),
         give=("Softanza gives every one the platform", "a grammar and its court · web, phone, desktop, server and device · data with an audit trail and undo · agents held to the same rules"),
@@ -314,7 +314,7 @@ def platforms(lang):
         cap="a world: stzApp · a constellation of worlds: stzSuperApp"),
      "fr": dict(t="UNE PLATEFORME DE PLATEFORMES · UNE CONSTRUCTION, DES MONDES",
         tops=[("RestoLean", "commerce de quartier · Lyon"), ("Organizium", "l'organisation d'une banque · Niamey"),
-              ("École des douanes", "l'évaluation devenue organisation, Tunisie")],
+              ("DIKO Hub", "outils reliés, Niger · conçu")],
         yours=("La vôtre", "déclarée dans vos propres mots"),
         decl=("Chacune déclare, dans ses propres mots", "un socle commun · un monde par personne et appareil · liens · règles · rôles"),
         give=("Softanza donne à chacune la plateforme", "une grammaire et son tribunal · web, téléphone, bureau, serveur, appareil · des données avec journal et retour arrière · des agents tenus aux mêmes règles"),
